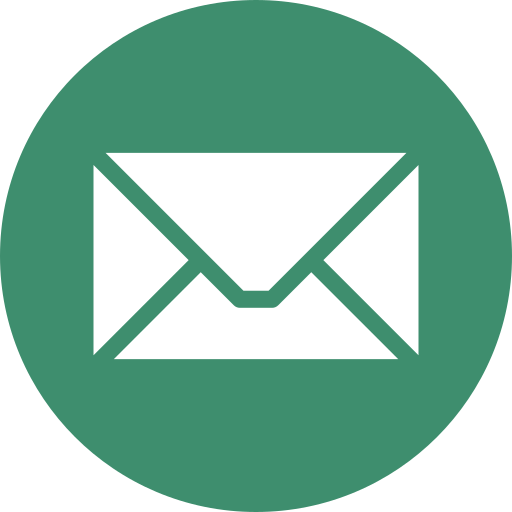
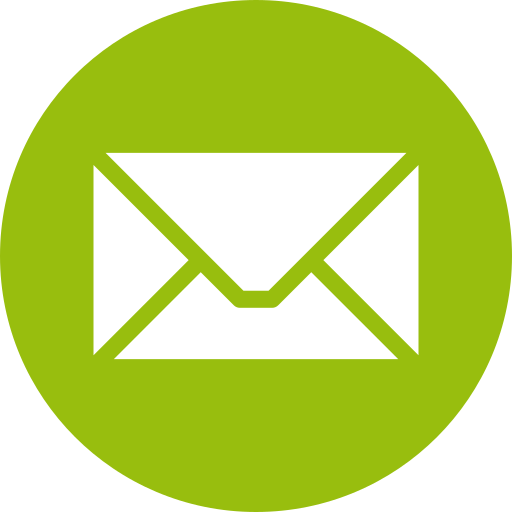
Swap monogram, add highlights for About section
Replace the old code monogram with a new S asset (updated public and src assets, and favicon in index.html).
Add renderWithHighlights util to wrap bracketed phrases in a .highlight span and update About.jsx to use it.
Split the About content into ABOUT_ME and ABOUT_ME_2 to render a second “Why Me?” section.
Add .highlight and .second-section rules to About.css and tweak the primary green color in index.css.
Also update Navbar to use the new monogram and include an updated email asset.

diff --git a/suzi-portfolio/src/constants.js b/suzi-portfolio/src/constants.js
@@ -36,11 +36,12 @@ Let's build something meaningful.`;
 export const LOCATION = 'Based in Auckland, NZ';
 
 // About
-export const ABOUT_ME = `My path into development started with a question I couldn't stop asking: what's actually happening behind the system?
-As an ERP consultant, I spent years bridging business and technology, but every time I walked out of a meeting with developers, I left wanting to understand what they were actually doing. So I went back to university, pursued my MIT, and started developing. I fell in love with it. Not just the coding itself, but the whole nature of it — there's always something new to learn, always a harder problem waiting. That never gets old for me.
-The more I got into it, the more I realized it wasn't a big leap from consulting at all. What I loved about that job was seeing technology actually solve a business problem. Turns out that's exactly what I love about building software too. Same instinct, different seat.
-I'm a developer at heart, though what really pulls me is what's happening under the hood — understanding how systems are structured, why decisions were made, and how everything fits together. That's where I feel most at home.
-What's different about me is that I've been on both sides of the table. I know how businesses think, where communication breaks down, and what it actually takes to build something that solves the right problem, not just a problem.`;
+export const ABOUT_ME = `My path into development started with a question: [what's actually happening behind the system?]
+As an ERP consultant, I spent time bridging business and technology, but every time I walked out of a meeting with developers, I left wanting to understand what they were doing. So I went back to university, pursued my MIT, and started developing. I love it, not just the coding, but the nature of it. [There's always something new to learn, always a challenge waiting.]
+The more I got into it, the more I realised it wasn't so different from consulting. [Seeing technology solve a real problem, that's what excited me then, and it's what drives me now.]`;
+
+export const ABOUT_ME_2 = `What's different about me is that I've been on both sides of the table. [I understand how businesses think, why requirements were raised, how systems are structured, and how everything fits together.]
+I bring that [perspective] to my development work, and makes me a better developer.`;
 
 // Experience
 export const EXPERIENCE_SUBTITLE = `From configuring ERP systems for manufacturing clients to building full-stack web features and shaping Shopify storefronts — a through line of turning complex requirements into clean, working software.`;

diff --git a/suzi-portfolio/src/components/About.jsx b/suzi-portfolio/src/components/About.jsx
@@ -1,8 +1,9 @@
 import './About.css'
-import { ABOUT_ME } from '../constants'
-import { splitIntoParagraphs } from '../utils'
+import { ABOUT_ME, ABOUT_ME_2 } from '../constants'
+import { splitIntoParagraphs, renderWithHighlights } from '../utils'
 
-const paragraphs = splitIntoParagraphs(ABOUT_ME)
+const paragraphs1 = splitIntoParagraphs(ABOUT_ME)
+const paragraphs2 = splitIntoParagraphs(ABOUT_ME_2)
 
 export default function About() {
   return (
@@ -18,8 +19,26 @@ export default function About() {
           </div>
 
           <div className="about-right">
-            {paragraphs.map((p, i) => (
-              <p key={i} className="about-para">{p}</p>
+            {paragraphs1.map((p, i) => (
+              <p key={i} className="about-para">{renderWithHighlights(p)}</p>
+            ))}
+          </div>
+
+        </div>
+      </div>
+
+      <div className="content-container">
+        <div className="about-inner second-section">
+          <div className="about-left">
+            <p className="eyebrow">&nbsp;</p>
+            <h2 className="title">
+              Why Me?
+            </h2>
+          </div>
+
+          <div className="about-right">
+            {paragraphs2.map((p, i) => (
+              <p key={i} className="about-para">{renderWithHighlights(p)}</p>
             ))}
           </div>
 

diff --git a/suzi-portfolio/src/components/About.css b/suzi-portfolio/src/components/About.css
@@ -6,6 +6,10 @@
   align-items: start;
 }
 
+.second-section{
+  margin-top: 3rem;
+}
+
 /* ─── Left column ─────────────────────────────────────── */
 .about-left {
   position: sticky;
@@ -24,6 +28,12 @@
   font-size: var(--text-rg);
   color: var(--dark-80);
   line-height: 1.85;
+}
+
+.highlight {
+  color: var(--clr-dark);
+  font-weight: 500;
+  border-bottom: 1.5px solid var(--clr-green);
 }
 
 /* ─── Responsive ──────────────────────────────────────── */

diff --git a/suzi-portfolio/src/components/Navbar.jsx b/suzi-portfolio/src/components/Navbar.jsx
@@ -1,5 +1,5 @@
 import { useState, useEffect } from 'react'
-import code from '../assets/code.png'
+import s from '../assets/s.png'
 import './Navbar.css'
 
 const NAV_LINKS = [
@@ -51,7 +51,7 @@ export default function Navbar() {
           aria-label="Suzi Ni — scroll to top"
           onClick={(e) => handleLink(e, '#hero')}
         >
-          <img src={code} className="navbar-monogram" aria-hidden="true" />
+          <img src={s} className="navbar-monogram" aria-hidden="true" />
           <span className="navbar-wordmark">Suzi Ni</span>
         </a>
 

diff --git a/suzi-portfolio/index.html b/suzi-portfolio/index.html
@@ -2,7 +2,7 @@
 <html lang="en">
   <head>
     <meta charset="UTF-8" />
-    <link rel="icon" type="image/svg+xml" href="/code.png" />
+    <link rel="icon" type="image/svg+xml" href="/s.png" />
     <meta name="viewport" content="width=device-width, initial-scale=1.0" />
     <title>Suzi Ni</title>
     <link rel="preconnect" href="https://fonts.googleapis.com" />

diff --git a/suzi-portfolio/src/utils.jsx b/suzi-portfolio/src/utils.jsx
@@ -1,3 +1,10 @@
 export function splitIntoParagraphs(text) {
   return text.trim().split('\n').filter(Boolean)
 }
+
+export function renderWithHighlights(text) {
+  const parts = text.split(/\[([^\]]+)\]/)
+  return parts.map((part, i) =>
+    i % 2 === 1 ? <span key={i} className="highlight">{part}</span> : part
+  )
+}

diff --git a/suzi-portfolio/src/index.css b/suzi-portfolio/src/index.css
@@ -7,8 +7,8 @@
   --clr-lime:       #c8f135;
   --clr-lime-rgb:   200, 241, 53;
   --clr-lime-hover: #d5f84e;
-  --clr-green:     #3e8e6e;
-  --clr-green-rgb: 63, 97, 45;
+  --clr-green:     #98BE0E;
+  --clr-green-rgb: 152, 190, 14;
 
   /* White alpha scale (dark sections) */
   --white-5:   rgba(255,255,255, 0.05);
